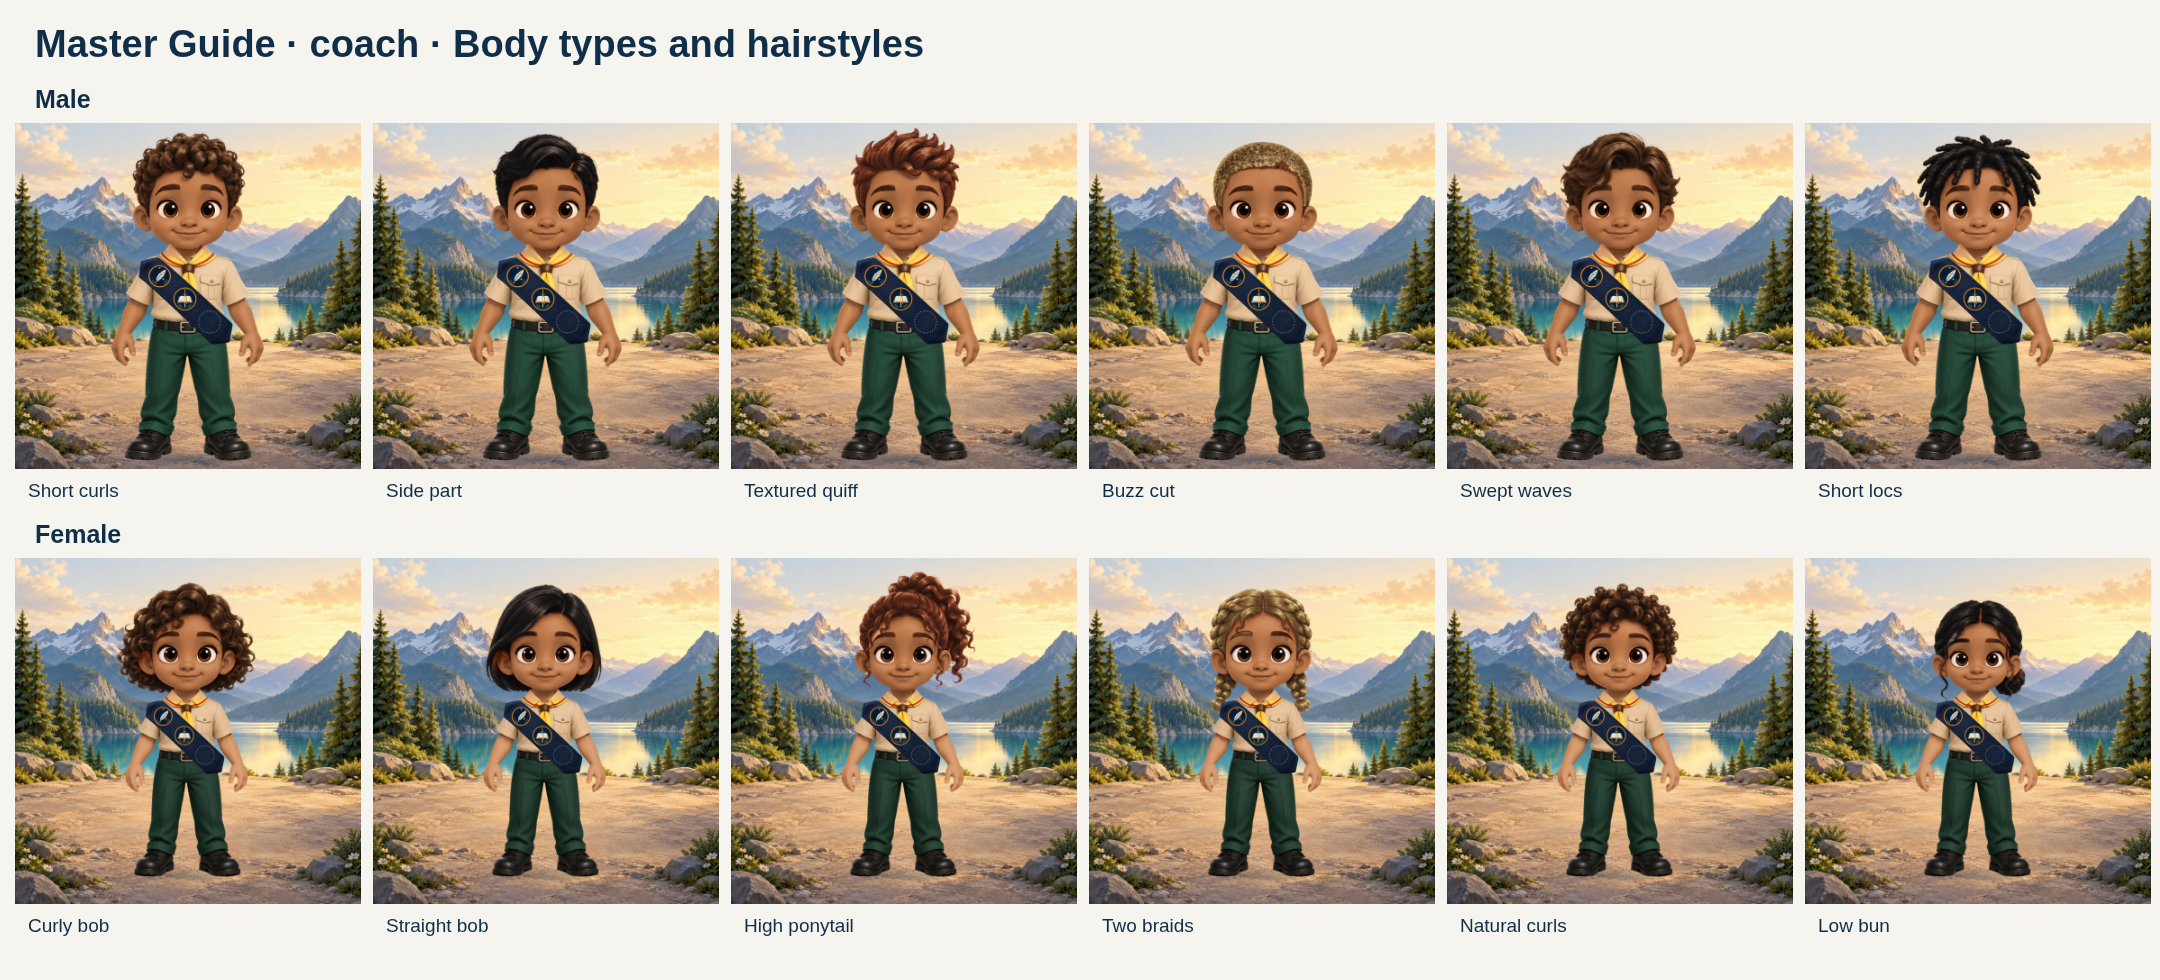
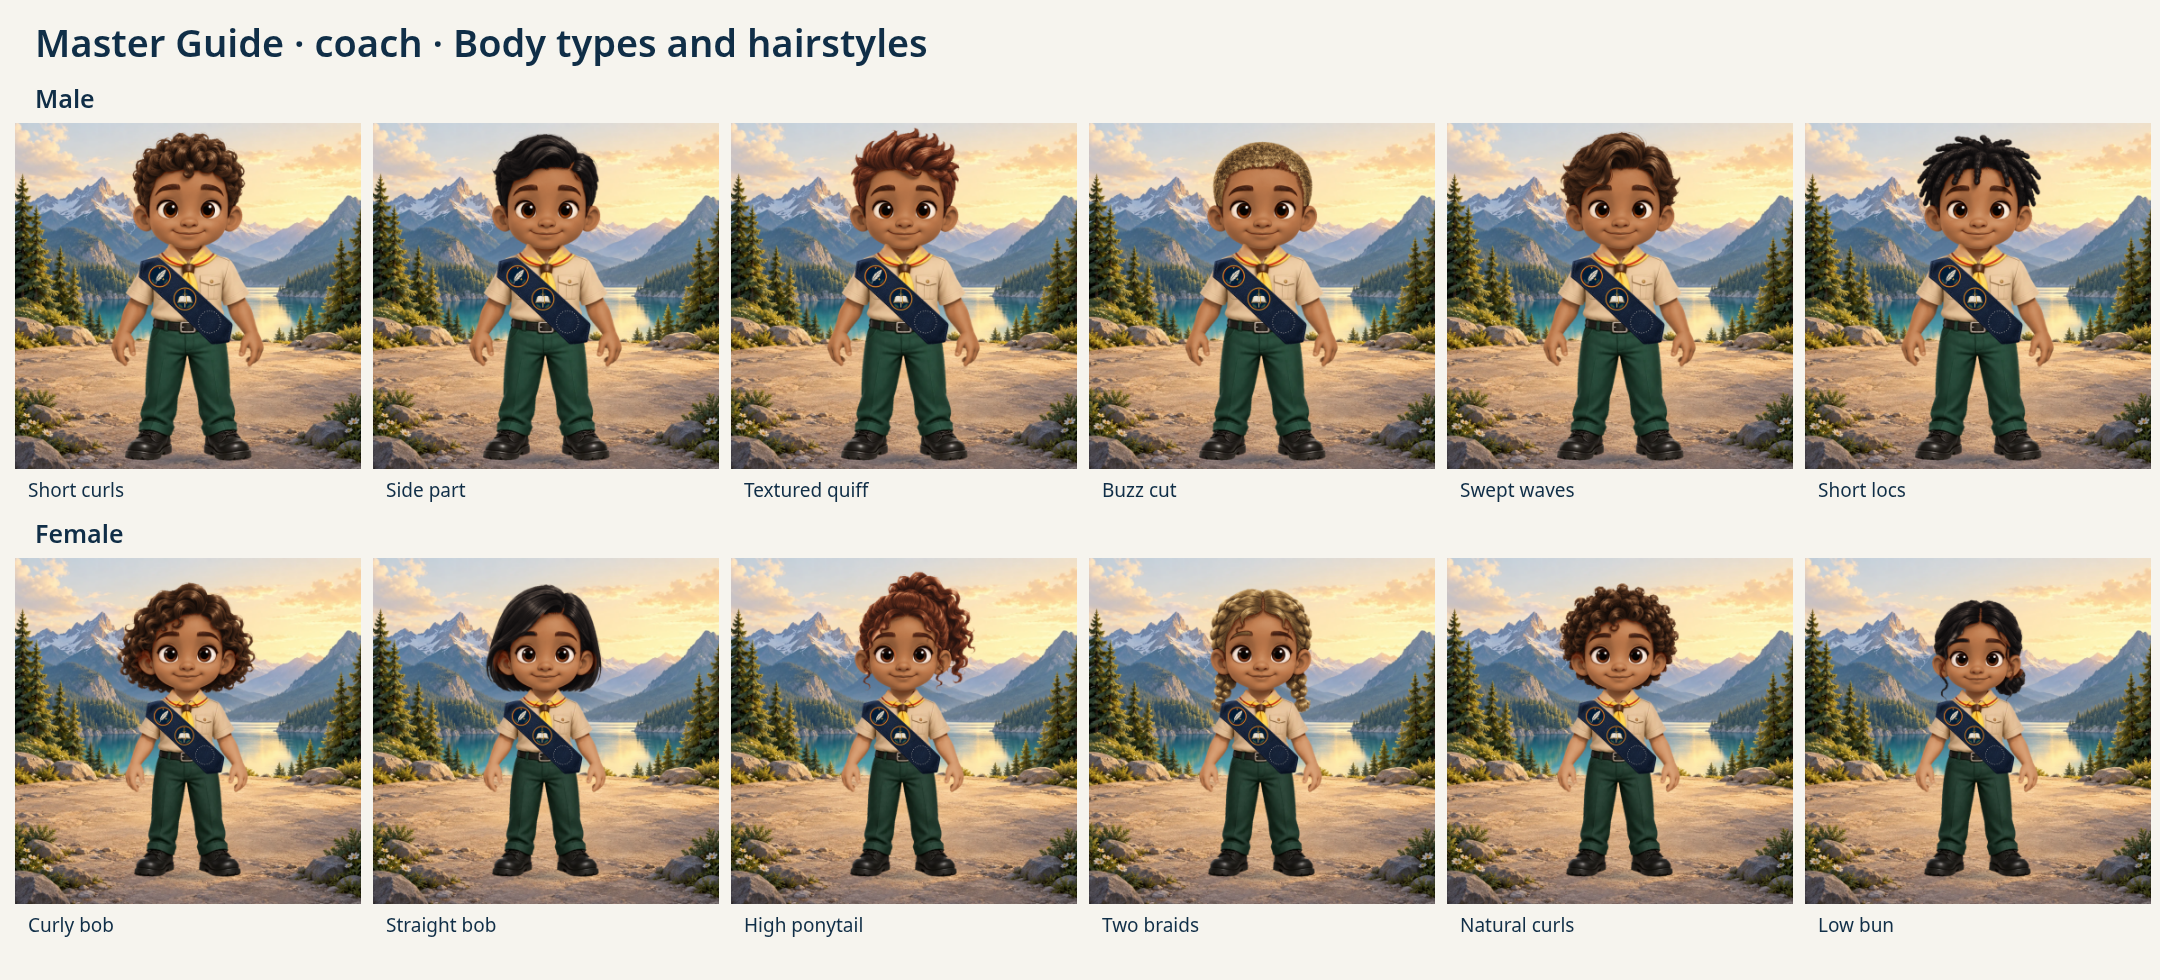
chore(character): leftover chibi creator updates
- Remove sweep hairstyle anatomy entries from appearance.ts
- Refresh character manifest
- Review/export assets and verification scripts from earlier character sessions

diff --git a/docs/brand/2026-09-13-profile-characters/ShareEditor.tsx b/docs/brand/2026-09-13-profile-characters/ShareEditor.tsx
@@ -21,23 +21,26 @@ export function ShareEditor({config,profile,collection,history,setHistory,option
  const renderKey=JSON.stringify([resourceKey,visible,options,profile.userName]),ready=resources?.key===resourceKey&&drawnKey===renderKey;
  const selection=visible.find(p=>p.key===selected),selectedArt=available.find(p=>p.key===selected);
  const selectedIndex=visible.findIndex(p=>p.key===selected);
- const fileReady=ready&&!draft&&prepared?.key===renderKey;
+ const isDragging=draft!==null;
+ const fileReady=ready&&!isDragging&&prepared?.key===renderKey;
  const nativeShareAPI=window.isSecureContext&&typeof navigator.share==='function'&&typeof navigator.canShare==='function';
  const offerNativeShare=nativeShareAPI&&(prepared?.nativeShare??true);
 
  useEffect(()=>{
   let active=true;
-  Promise.all([renderShareBase(config),Promise.all(unlockedPatches(collection).map(async p=>[p.key,await loadImage(p.src)] as const))]).then(([base,art])=>{
+  const [configuration,patchCollection]=JSON.parse(resourceKey) as [Configuration,SharePatch[]];
+  Promise.all([renderShareBase(configuration),Promise.all(unlockedPatches(patchCollection).map(async p=>[p.key,await loadImage(p.src)] as const))]).then(([base,art])=>{
    if(active)setResources({key:resourceKey,base,art:new Map(art)});
   }).catch(e=>{if(active)onError(e instanceof Error?e.message:'Unable to prepare your card.');});
   return()=>{active=false;};
  },[resourceKey,onError]);
  useLayoutEffect(()=>{
   if(resources?.key!==resourceKey||!canvasRef.current)return;
-  paintShareCard(canvasRef.current,resources.base,visible,resources.art,profile,options);setDrawnKey(renderKey);
+  const [,placements,visibility,userName]=JSON.parse(renderKey) as [string,Placement[],ShareOptions,string];
+  paintShareCard(canvasRef.current,resources.base,placements,resources.art,{userName},visibility);setDrawnKey(renderKey);
  },[resources,resourceKey,renderKey]);
  useEffect(()=>{
-  if(!ready||draft)return;
+  if(!ready||isDragging)return;
   let active=true;
   // Prepare the current PNG before a tap: no asynchronous encoding may delay navigator.share().
   // Debounce rapid edits and avoid encoding every frame of a patch drag.
@@ -52,7 +55,7 @@ export function ShareEditor({config,profile,collection,history,setHistory,option
    },'image/png');}catch{if(active)onError('Unable to prepare your image. Please try changing the card again.');}
   },100);
   return()=>{active=false;window.clearTimeout(timer);};
- },[ready,renderKey,Boolean(draft),config.attire,nativeShareAPI,onError]);
+ },[ready,renderKey,isDragging,config.attire,nativeShareAPI,onError]);
  useEffect(()=>{
   function escape(event:KeyboardEvent){if(event.key==='Escape'&&drag.current){event.preventDefault();cancelDrag();}}
   function blur(){if(drag.current)cancelDrag();}

diff --git a/apps/web/src/features/profile/character/appearance.ts b/apps/web/src/features/profile/character/appearance.ts
@@ -33,18 +33,14 @@ export function mapSkinTone(original:number[],reference:number[],skin:Skin){
 // sclera, eyelashes, pupils and catchlights; skin excludes both eye regions.
 const anatomy: Record<string,{eyes:number[][]; face:number[]; neck:number[]; armY:number; cheek:number[]}> = {
  'student-curls':{eyes:[[213,187,17,19],[296,185,17,20]],face:[255,191,119,84],neck:[252,273,34,25],armY:366,cheek:[240,211]},
- 'student-sweep':{eyes:[[212,197,16,18],[294,193,16,18]],face:[254,192,114,86],neck:[252,278,31,22],armY:370,cheek:[240,219]},
  'student-bob':{eyes:[[216,207,15,17],[292,205,15,17]],face:[254,204,106,80],neck:[253,285,30,23],armY:382,cheek:[242,226]},
  'coach-curls':{eyes:[[218,203,16,18],[299,201,16,18]],face:[256,204,120,83],neck:[252,293,32,26],armY:397,cheek:[240,219]},
- 'coach-sweep':{eyes:[[218,189,16,18],[291,184,16,18]],face:[253,186,111,88],neck:[250,276,30,23],armY:374,cheek:[240,211]},
  'coach-bob':{eyes:[[217,193,16,18],[292,193,16,18]],face:[253,193,108,84],neck:[254,281,30,23],armY:380,cheek:[239,218]},
 };
 const faceOutlines: Record<string,number[][]> = {
  'student-curls':[[129,215],[163,176],[164,126],[199,102],[254,80],[300,101],[347,145],[348,180],[381,174],[384,246],[320,275],[190,280]],
- 'student-sweep':[[131,190],[163,172],[178,139],[206,128],[236,117],[257,96],[289,105],[324,139],[337,183],[371,179],[373,239],[314,280],[181,280],[131,240]],
  'student-bob':[[143,214],[173,194],[176,153],[211,150],[235,133],[250,107],[288,114],[317,141],[336,184],[365,202],[357,251],[306,284],[192,284]],
  'coach-curls':[[130,213],[163,173],[173,128],[216,103],[260,96],[310,116],[343,157],[348,192],[382,190],[384,256],[320,294],[184,293]],
- 'coach-sweep':[[138,193],[172,165],[180,122],[208,111],[238,98],[274,90],[308,104],[328,145],[339,177],[369,173],[367,231],[317,275],[190,279]],
  'coach-bob':[[141,211],[174,177],[181,139],[214,132],[238,107],[262,99],[295,113],[320,141],[337,180],[365,192],[360,244],[307,279],[190,284]],
 };
 function inside(x:number,y:number,points:number[][]){let yes=false;for(let i=0,j=points.length-1;i<points.length;j=i++){const a=points[i],b=points[j];const dx=b[0]-a[0],dy=b[1]-a[1],t=Math.max(0,Math.min(1,((x-a[0])*dx+(y-a[1])*dy)/(dx*dx+dy*dy)));if(Math.hypot(x-a[0]-t*dx,y-a[1]-t*dy)<16)return true;if((a[1]>y)!==(b[1]>y)&&x<(b[0]-a[0])*(y-a[1])/(b[1]-a[1])+a[0])yes=!yes;}return yes;}

diff --git a/docs/brand/2026-09-13-profile-characters/appearance.ts b/docs/brand/2026-09-13-profile-characters/appearance.ts
@@ -33,18 +33,14 @@ export function mapSkinTone(original:number[],reference:number[],skin:Skin){
 // sclera, eyelashes, pupils and catchlights; skin excludes both eye regions.
 const anatomy: Record<string,{eyes:number[][]; face:number[]; neck:number[]; armY:number; cheek:number[]}> = {
  'student-curls':{eyes:[[213,187,17,19],[296,185,17,20]],face:[255,191,119,84],neck:[252,273,34,25],armY:366,cheek:[240,211]},
- 'student-sweep':{eyes:[[212,197,16,18],[294,193,16,18]],face:[254,192,114,86],neck:[252,278,31,22],armY:370,cheek:[240,219]},
  'student-bob':{eyes:[[216,207,15,17],[292,205,15,17]],face:[254,204,106,80],neck:[253,285,30,23],armY:382,cheek:[242,226]},
  'coach-curls':{eyes:[[218,203,16,18],[299,201,16,18]],face:[256,204,120,83],neck:[252,293,32,26],armY:397,cheek:[240,219]},
- 'coach-sweep':{eyes:[[218,189,16,18],[291,184,16,18]],face:[253,186,111,88],neck:[250,276,30,23],armY:374,cheek:[240,211]},
  'coach-bob':{eyes:[[217,193,16,18],[292,193,16,18]],face:[253,193,108,84],neck:[254,281,30,23],armY:380,cheek:[239,218]},
 };
 const faceOutlines: Record<string,number[][]> = {
  'student-curls':[[129,215],[163,176],[164,126],[199,102],[254,80],[300,101],[347,145],[348,180],[381,174],[384,246],[320,275],[190,280]],
- 'student-sweep':[[131,190],[163,172],[178,139],[206,128],[236,117],[257,96],[289,105],[324,139],[337,183],[371,179],[373,239],[314,280],[181,280],[131,240]],
  'student-bob':[[143,214],[173,194],[176,153],[211,150],[235,133],[250,107],[288,114],[317,141],[336,184],[365,202],[357,251],[306,284],[192,284]],
  'coach-curls':[[130,213],[163,173],[173,128],[216,103],[260,96],[310,116],[343,157],[348,192],[382,190],[384,256],[320,294],[184,293]],
- 'coach-sweep':[[138,193],[172,165],[180,122],[208,111],[238,98],[274,90],[308,104],[328,145],[339,177],[369,173],[367,231],[317,275],[190,279]],
  'coach-bob':[[141,211],[174,177],[181,139],[214,132],[238,107],[262,99],[295,113],[320,141],[337,180],[365,192],[360,244],[307,279],[190,284]],
 };
 function inside(x:number,y:number,points:number[][]){let yes=false;for(let i=0,j=points.length-1;i<points.length;j=i++){const a=points[i],b=points[j];const dx=b[0]-a[0],dy=b[1]-a[1],t=Math.max(0,Math.min(1,((x-a[0])*dx+(y-a[1])*dy)/(dx*dx+dy*dy)));if(Math.hypot(x-a[0]-t*dx,y-a[1]-t*dy)<16)return true;if((a[1]>y)!==(b[1]>y)&&x<(b[0]-a[0])*(y-a[1])/(b[1]-a[1])+a[0])yes=!yes;}return yes;}

diff --git a/docs/brand/2026-09-13-profile-characters/README.md b/docs/brand/2026-09-13-profile-characters/README.md
@@ -64,22 +64,31 @@ node docs/brand/2026-09-13-profile-characters/verify-selector-previews.mjs
 node docs/brand/2026-09-13-profile-characters/verify-backgrounds.mjs
 node docs/brand/2026-09-13-profile-characters/verify-share.mjs
 node docs/brand/2026-09-13-profile-characters/verify-native-share.mjs
+node docs/brand/2026-09-13-profile-characters/verify-share-labels.mjs
 node docs/brand/2026-09-13-profile-characters/verify-attire-scale.mjs
 node docs/brand/2026-09-13-profile-characters/verify-skin-sash.mjs
 python docs/brand/2026-09-13-profile-characters/verify-cutout-edges.py
 python docs/brand/2026-09-13-profile-characters/verify-placement.py
 node docs/brand/2026-09-13-profile-characters/capture-review.mjs
 node docs/brand/2026-09-13-profile-characters/capture-share.mjs
+```
+
+No server needed — twin/manifest/production guards:
+
+```sh
+node docs/brand/2026-09-13-profile-characters/verify-twins.mjs
+node docs/brand/2026-09-13-profile-characters/verify-manifest.mjs
+node docs/brand/2026-09-13-profile-characters/verify-production-assets.mjs
 ./node_modules/.bin/tsc --noEmit --jsx react-jsx --target es2022 --module esnext --moduleResolution bundler --lib ES2022,DOM --allowSyntheticDefaultImports --skipLibCheck --types vite/client --resolveJsonModule docs/brand/2026-09-13-profile-characters/review.tsx
 ```
 
 The review imports actual shared React UI primitives and semantic CSS. Its checked-in browser bundle is separate from the application bundle. Color changes are deterministic runtime rendering, not new generated images for each selection.
 
-Local validation: bundle/scoped TypeScript and whitespace passed. Chromium checked all **96 body/hairstyle/attire/hair-color combinations**, distinct rendered colors, body-specific hairstyle memory, Master Guide preservation, skin/eye/background controls, Honor ordering/duplicates/empty states, independent avatars and live portraits, image download, search/navigation and keyboard focus. All four pages passed at 1440/390/320 for both bodies and both attires (**48 page/viewport checks**), with no overflow, missing images or page errors. The sash containment check passed.
+Local validation: bundle/scoped TypeScript and whitespace passed. Chromium checked all **96 body/hairstyle/attire/hair-color combinations** (2 bodies × 2 attires × 6 styles/body × 4 hair colors), distinct rendered colors, body-specific hairstyle memory, Master Guide preservation, skin/eye/background controls, Honor ordering/duplicates/empty states, independent avatars and live portraits, image download, search/navigation and keyboard focus. All four pages passed at 1440/390/320 for both bodies and both attires (**48 page/viewport checks** = 4 pages × 3 viewports × 2 bodies × 2 attires), with no overflow, missing images or page errors. The sash containment check passed.
 
-The dedicated refinement check covers **144 hairstyle/skin/hair-color combinations**, **678,444 protected inner-ear sample comparisons**, transparent borders on **144 portraits**, and **24 neck attachment registrations**. It also verifies identical portrait output when attire/background/Honors change. Enlarged neck joins across all twelve styles and both attires, both 24-portrait color sheets, refreshed profile screenshots and a matched before/after were visually inspected. Tests establish the stated pixel/interaction properties, not universal art quality; see the notes for limits. QA-only images remain outside Git; intentional review screenshots and comparison sheets are in this package.
+The dedicated refinement check covers **144 hairstyle/skin/hair-color combinations** (12 styles × 3 skins × 4 hair colors), **678,444 protected inner-ear sample comparisons** (counted at runtime from the ear-ellipse geometry), transparent borders on **144 portraits**, and **24 neck attachment registrations** (12 styles × 2 attires). It also verifies identical portrait output when attire/background/Honors change. Enlarged neck joins across all twelve styles and both attires, both 24-portrait color sheets, refreshed profile screenshots and a matched before/after were visually inspected. Tests establish the stated pixel/interaction properties, not universal art quality; see the notes for limits. QA-only images remain outside Git; intentional review screenshots and comparison sheets are in this package.
 
-The selector regression check reproduced the original static-thumbnail defect, then passed **120 individual thumbnail color updates** across both bodies, **four selected-thumbnail/Profile-portrait matches**, rapid changes, attire/background independence and 1440/390/320 layouts. Creator capture/verification now waits for all six rendered thumbnails as well as the main character.
+The selector regression check reproduced the original static-thumbnail defect, then passed **120 individual thumbnail color updates** across both bodies (2 bodies × 10 recolor options × 6 thumbnails), **four selected-thumbnail/Profile-portrait matches**, rapid changes, attire/background independence and 1440/390/320 layouts. Creator capture/verification now waits for all six rendered thumbnails as well as the main character.
 
 ## Share editor and complexion tuning — September 13
 
